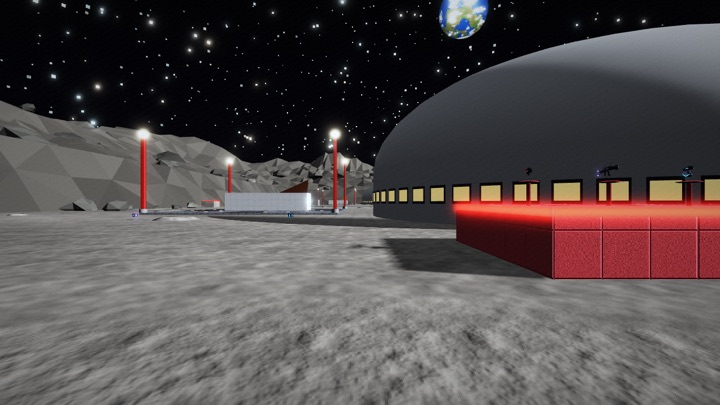
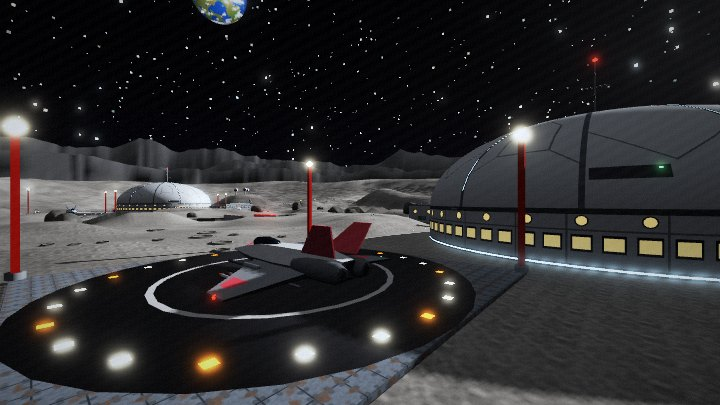
docs: Tranquility's map card shows the moon as it is now: its combat ship, rocks and mountains (#212)

diff --git a/demo/index.html b/demo/index.html
@@ -345,7 +345,7 @@
               <input type="radio" name="map" value="tranquility" />
               <img
                 src="./maps/tranquility.jpg"
-                alt="The red dome of Tranquility on the crater floor, the Earth in a black sky"
+                alt="A combat ship on its pad by the red dome of Tranquility, mountains on the crater's horizon, the Earth in a black sky"
               />
               <i>✓</i>
               <div>
